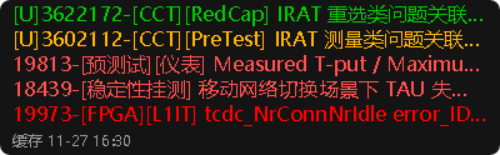
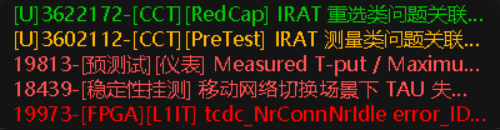
Show status line only on query failure
- Hide the footer in the normal case; keep the red failure hint
- Drop the cached/updated wording, keep only the timestamp on failure
- Refresh README and screenshot

diff --git a/bugzilla_rainmeter.py b/bugzilla_rainmeter.py
@@ -122,9 +122,9 @@ def main():
 
     entries.sort(key=lambda e: e[0])
 
-    # 状态行：@status|<时间>|<失败源>|<更新>|<缓存>|<失败>
+    # 状态行：@status|<时间>|<失败源>|<失败字样>
     # 文字统一由这里提供，Lua 只做拼接，避免 Lua 源码里的中文经 Bang 传递时乱码。
-    status_line = "@status|%s|%s|更新|缓存|失败:" % (
+    status_line = "@status|%s|%s|失败:" % (
         time.strftime("%m-%d %H:%M"), ",".join(failed))
     lines = [status_line] + [e[1] for e in entries]
 

diff --git a/README.md b/README.md
@@ -7,7 +7,7 @@
 - 同时查询多个 Bugzilla 实例
 - 按状态着色，按优先级排序（NeedInfo → Assigned → RootCaused → NEW）
 - 标题过长会截断，鼠标悬停显示完整标题
-- 底部状态行显示更新时间；某个数据源失败时会标红提示
+- 查询失败时底部用红字提示（正常时不显示，不占空间）
 - 刷新/启动时先显示上次成功结果的缓存，不会白屏等待
 - 面板高度随实际行数变化
 - 账号与 API Key 全部在本地 `config.json`，不进入仓库
@@ -69,11 +69,11 @@
 - 每 60 秒刷新一次；最多显示 8 行（`bug_list.ini` 的 `MaxBug`）。
 - 排序：先按状态优先级，再按 bug id 倒序（新的在前）。
 
-## 状态行与缓存
+## 缓存与失败提示
 
-- 底部小字显示 `更新 MM-DD HH:MM`；如果某个数据源查询失败，会变成红色并显示 `失败: 名称`。
-- Python 每次成功查询后把结果写入 `cache.txt`；皮肤刷新/启动时先显示缓存（标注 `缓存 MM-DD HH:MM`），等新结果到达后自动替换。
-- 所有数据源都失败时，继续显示上一次成功的列表，只把状态行标红。
+- 平时不显示额外行；只有某个数据源查询失败时，底部才出现红字 `<时间> | 失败: 名称`。
+- Python 每次成功查询后把结果写入 `cache.txt`；皮肤刷新/启动时先显示缓存，等新结果到达后自动替换。
+- 所有数据源都失败时，继续显示上一次成功的列表，并显示红色失败提示。
 - 缓存使用系统 ANSI 编码写入（Rainmeter 的 Lua 通道按 ANSI 解释字符串），因此中文系统显示最佳。
 
 ## 隐私
